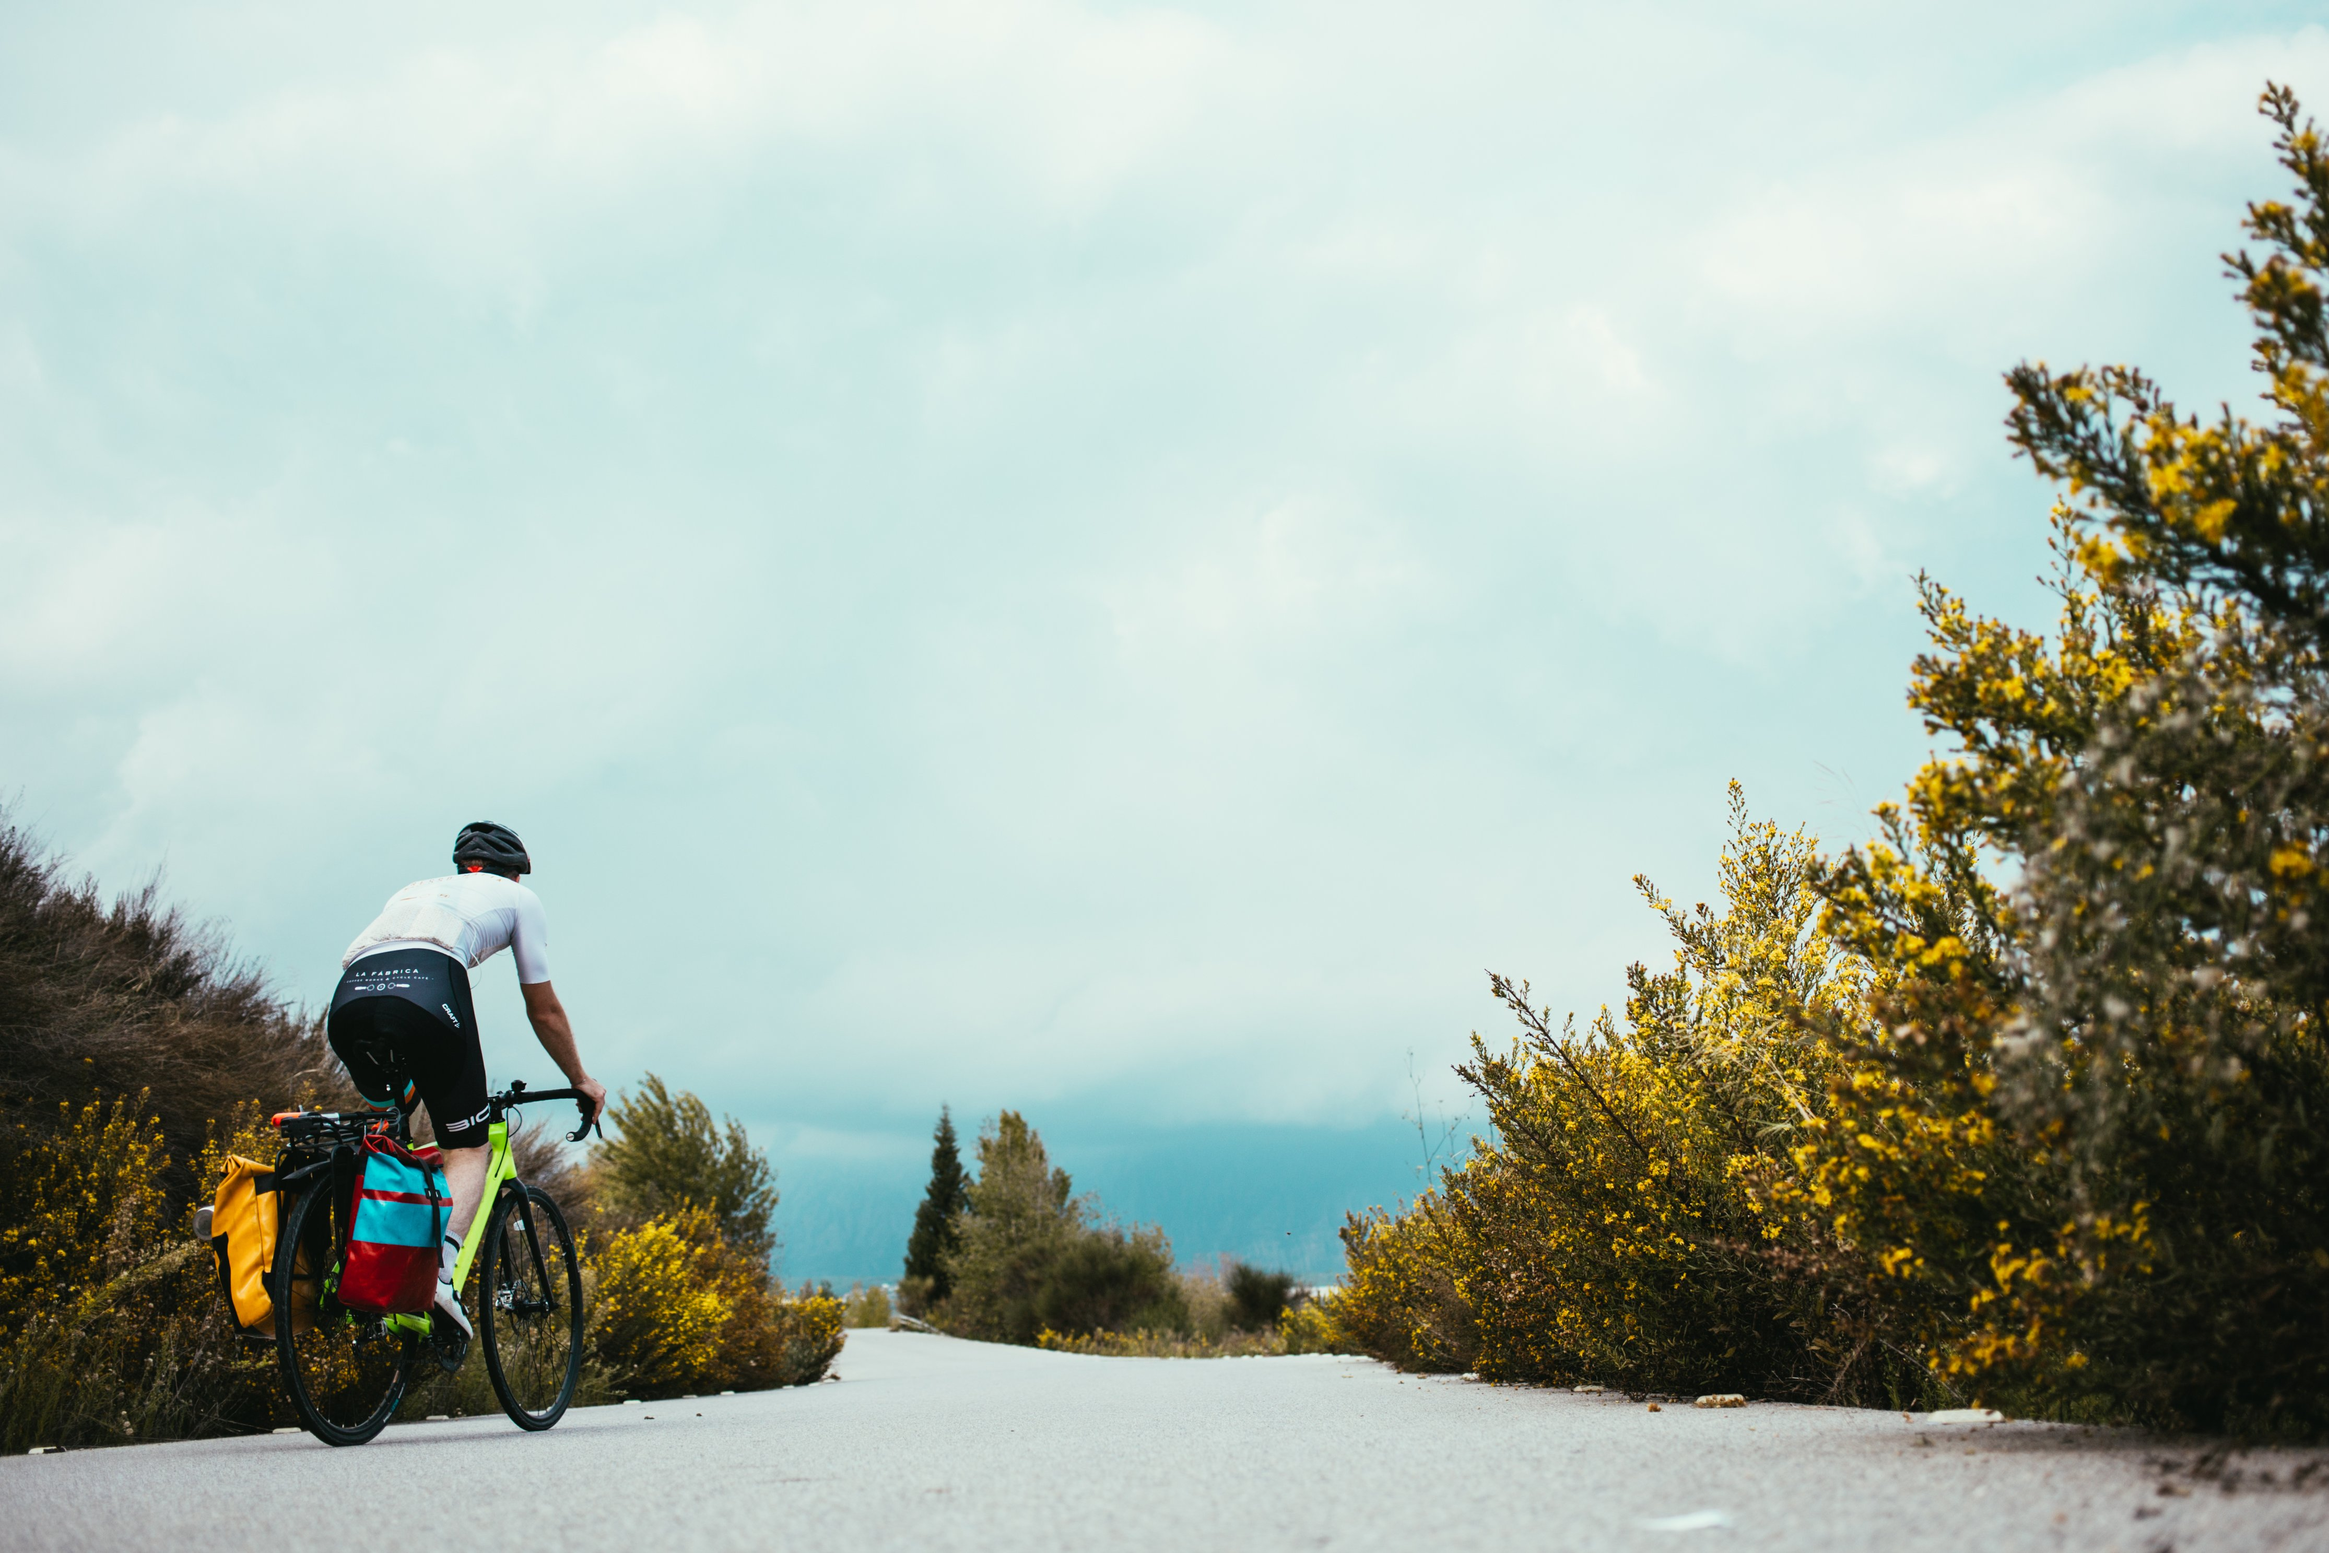
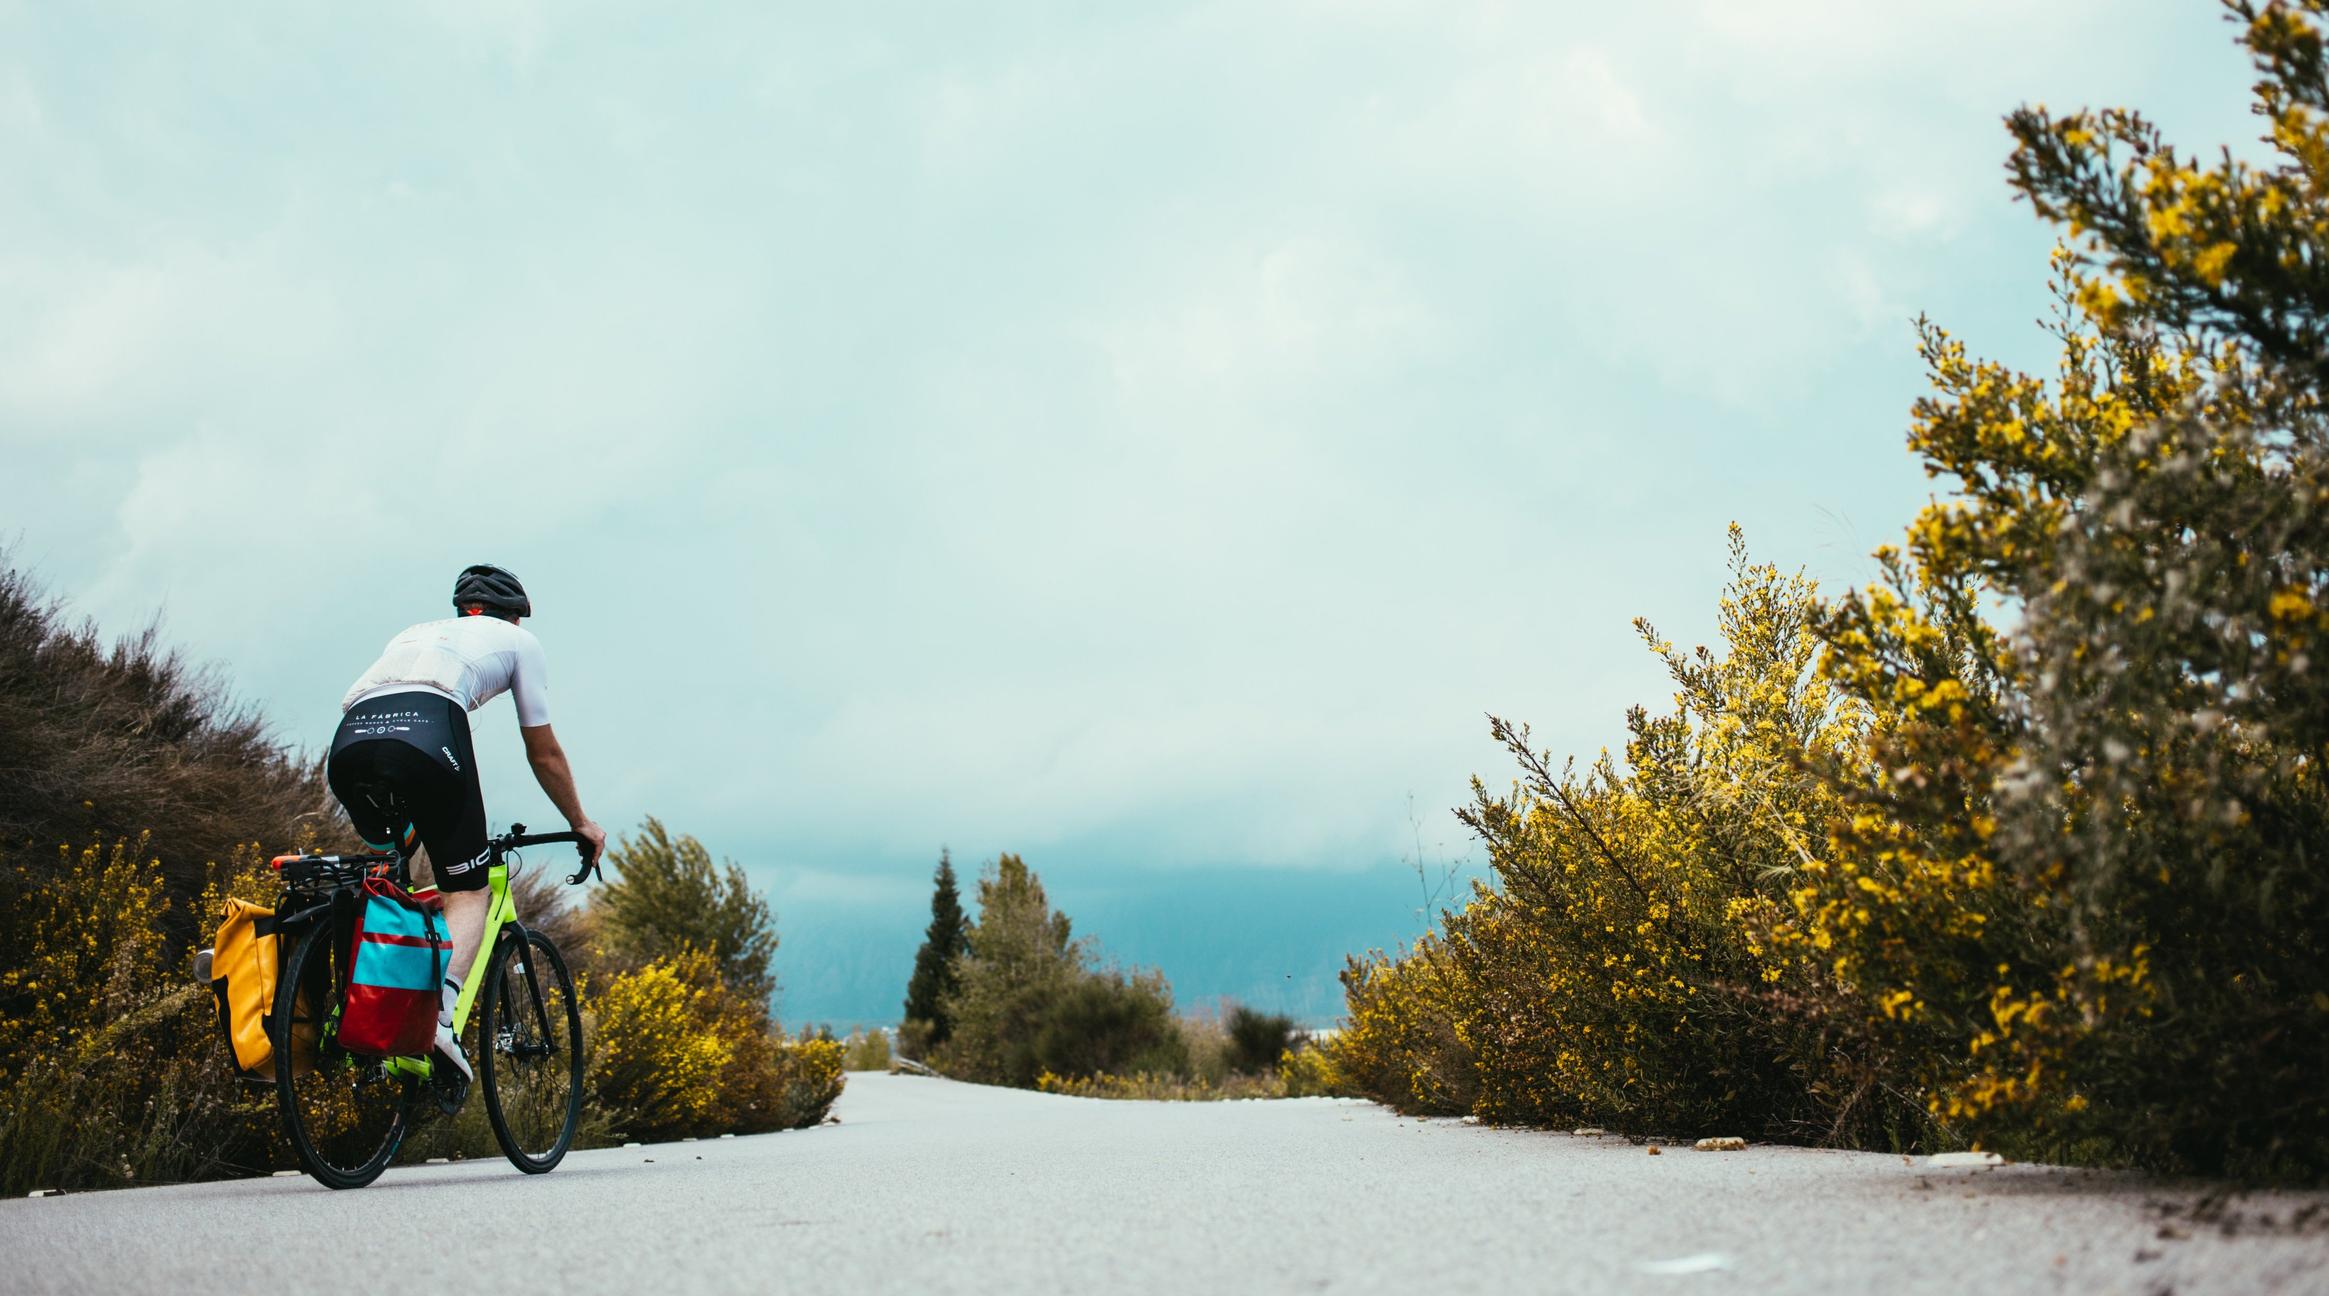
Change background image of demo form

diff --git a/frontend/components/session_forms/demo_form.jsx b/frontend/components/session_forms/demo_form.jsx
@@ -57,7 +57,7 @@ class DemoForm extends React.Component {
 
   render() {
     return (
-      <div className="bg07">
+      <div className="bg02">
         <div className="login-form-container">
           <h2 id="login-title">Log In</h2>
           <form className="login-form-box">
